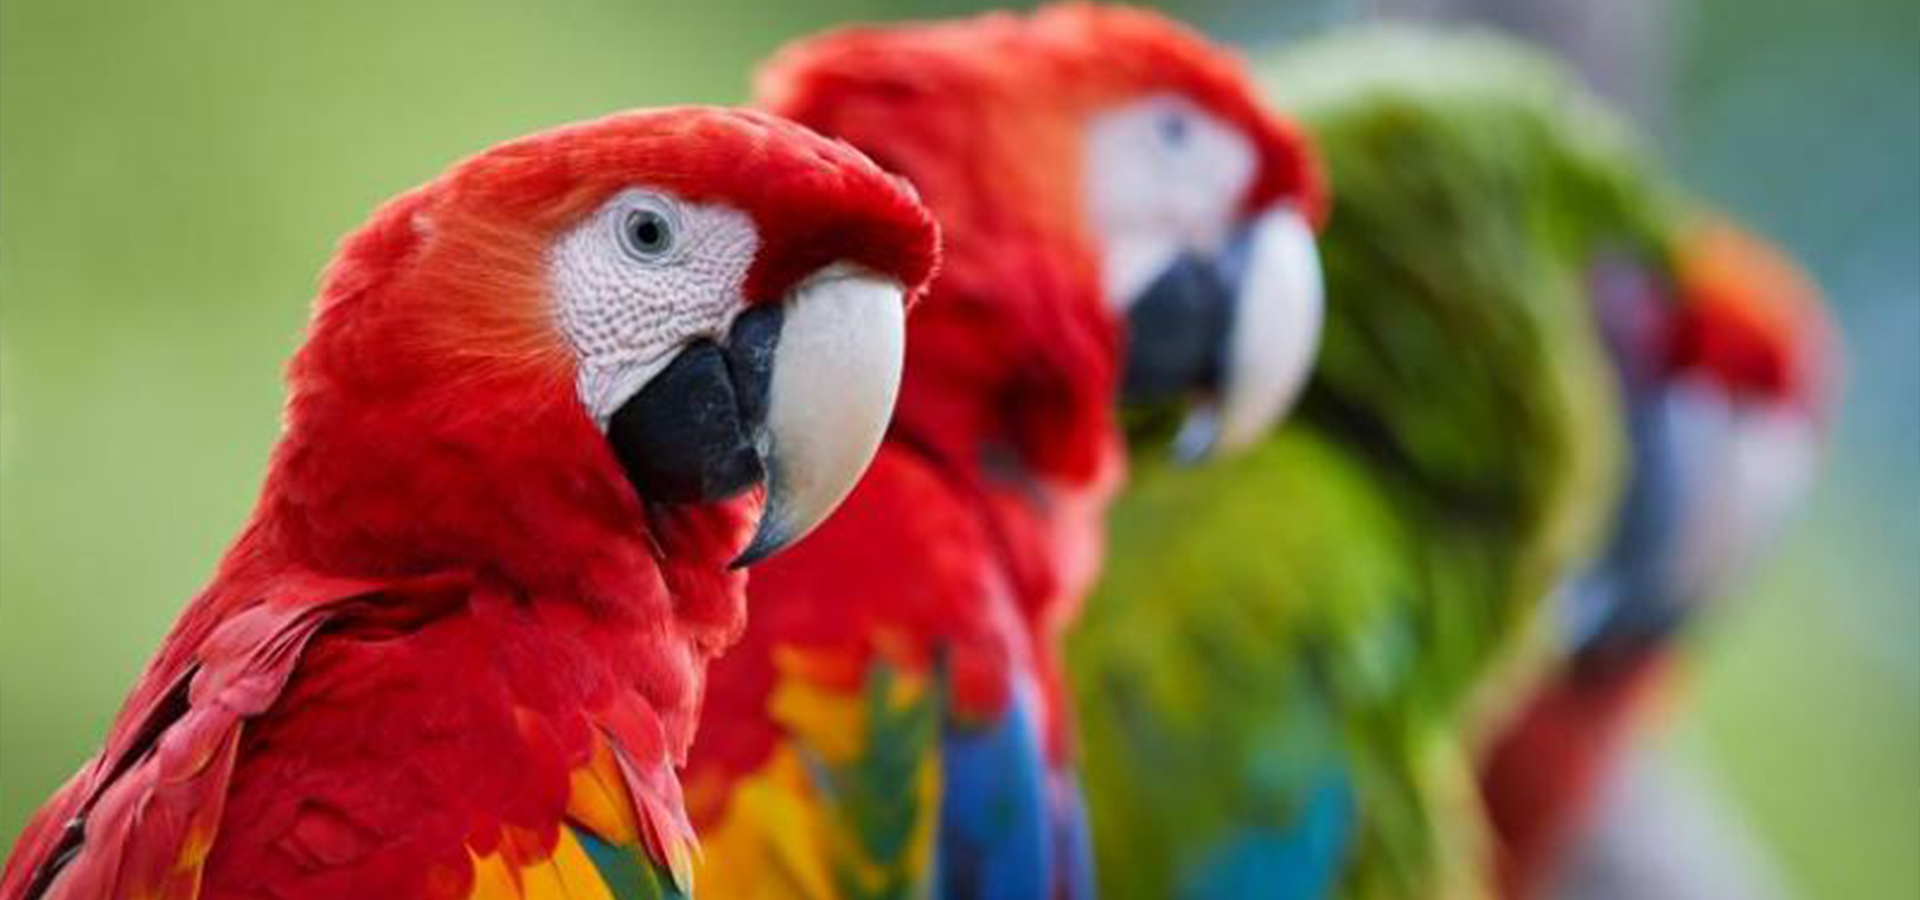
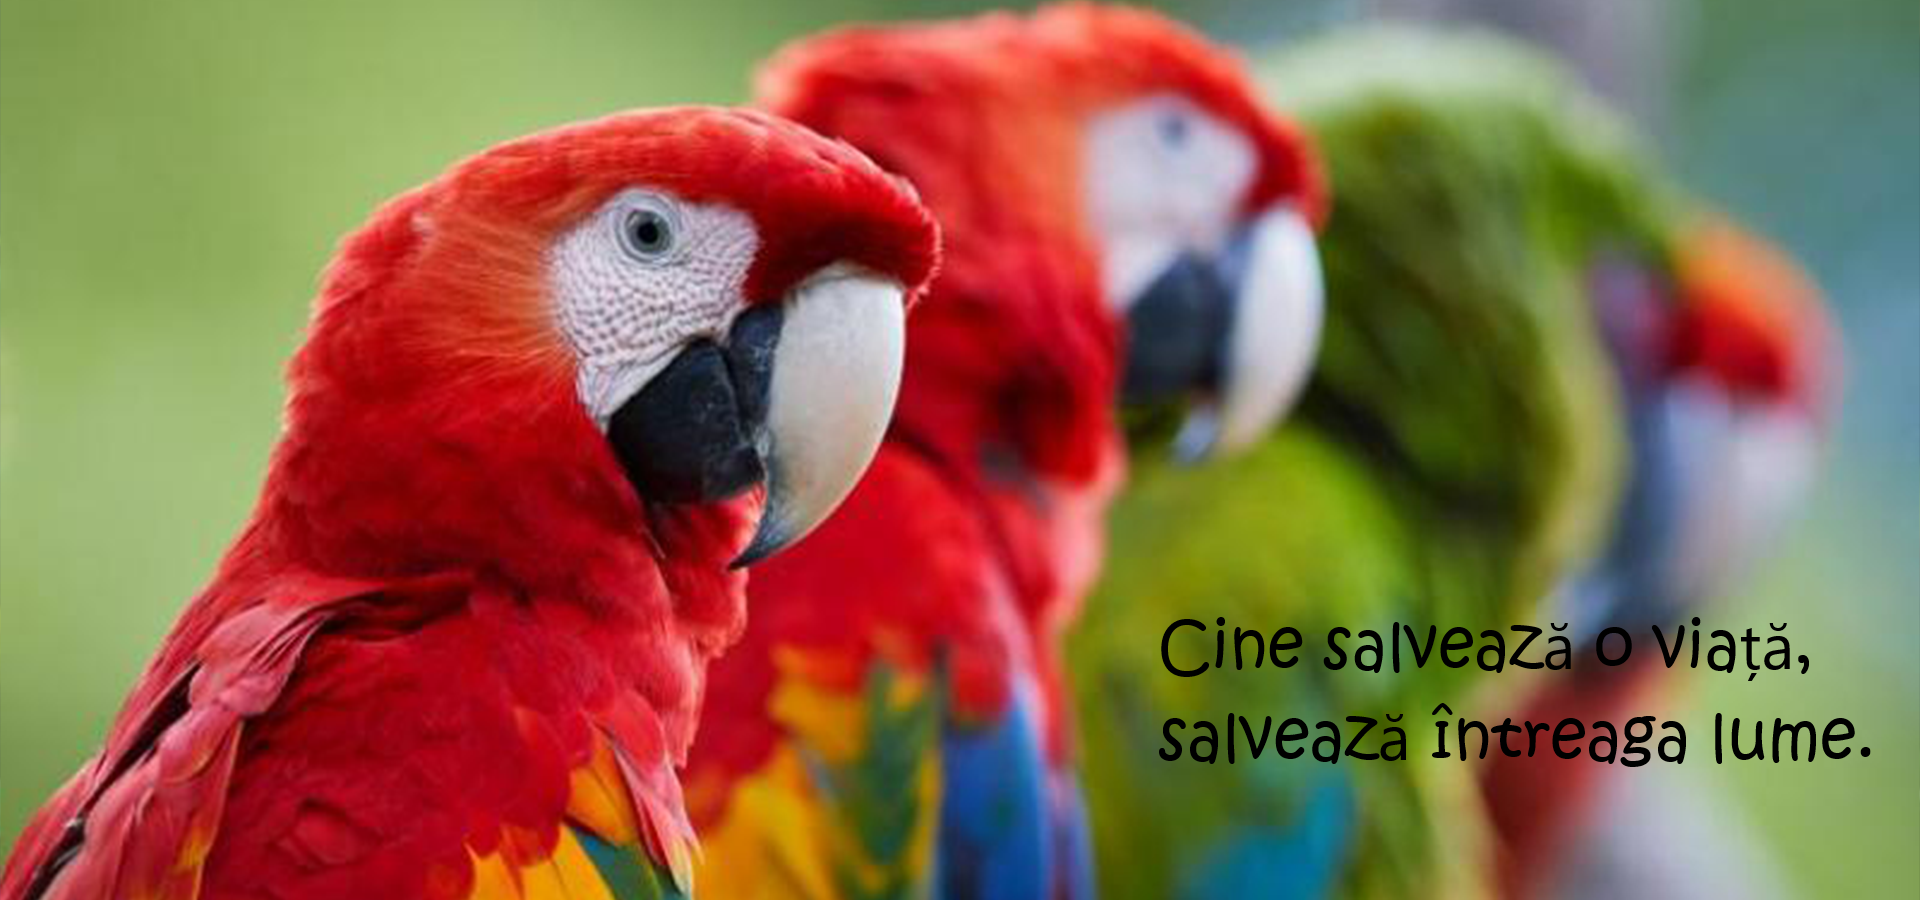
Adaugat text pe imagini

Changed region(s): [[0.5938, 0.7778, 0.9688, 0.8711], [0.5938, 0.6844, 0.9375, 0.7467]]

diff --git a/WEB/index.php b/WEB/index.php
@@ -35,15 +35,15 @@
                                 <li data-target="#carouselExampleIndicators" data-slide-to="4"></li>
                                 <li data-target="#carouselExampleIndicators" data-slide-to="5"></li>
                                 <li data-target="#carouselExampleIndicators" data-slide-to="6"></li>
-                                <li data-target="#carouselExampleIndicators" data-slide-to="7"></li>
+                                <!-- <li data-target="#carouselExampleIndicators" data-slide-to="7"></li> -->
                             </ol>
                             <div class="carousel-inner">
                                 <div class="carousel-item active">
                                 <img class="d-block w-100" src="image/index.png" alt="First slide">
                                 </div>
-                                <div class="carousel-item">
+                                <!-- <div class="carousel-item">
                                 <img class="d-block w-100" src="image/animal4.png" alt="Third slide">
-                                </div>
+                                </div> -->
                                 <div class="carousel-item">
                                 <img class="d-block w-100" src="image/animal3.png" alt="Third slide">
                                 </div>
